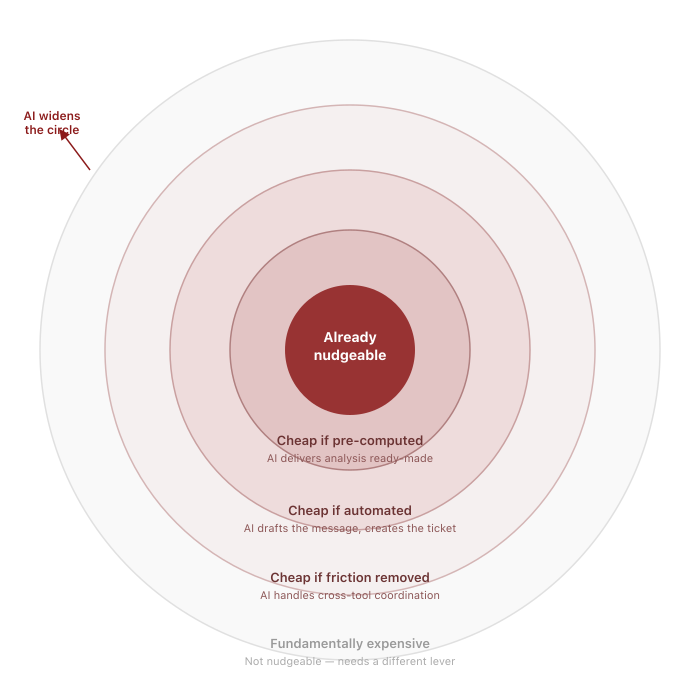
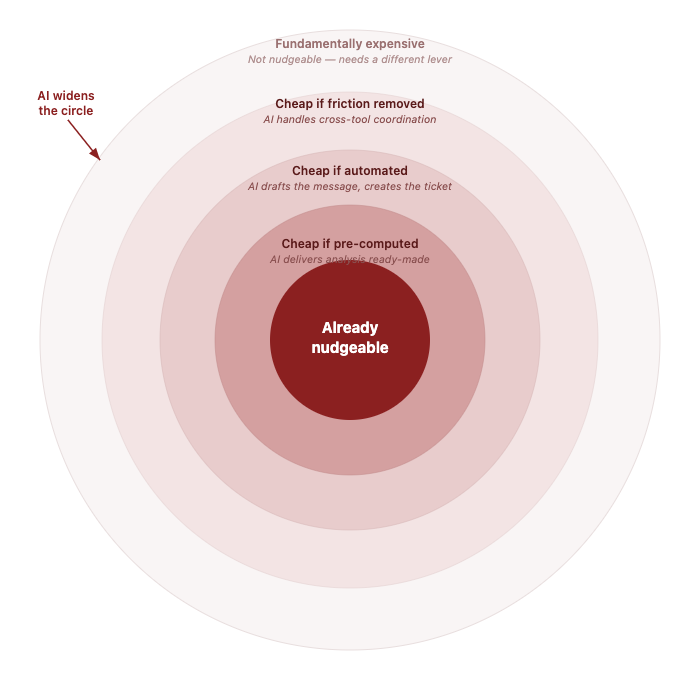
Rebuild expanding circle diagram with labels inside ring bands
Text now centered within each concentric layer instead of stacked
below center. Cleaner, more readable layout.

diff --git a/public/expanding-circle.html b/public/expanding-circle.html
@@ -1,0 +1,63 @@
+<!DOCTYPE html>
+<html lang="en">
+<head>
+<meta charset="UTF-8">
+<style>
+  * { margin: 0; padding: 0; box-sizing: border-box; }
+  body { background: #fff; display: flex; align-items: center; justify-content: center; height: 700px; width: 700px; }
+  svg { display: block; }
+</style>
+</head>
+<body>
+<svg viewBox="0 0 700 700" width="700" height="700" xmlns="http://www.w3.org/2000/svg">
+  <!-- Background -->
+  <rect width="700" height="700" fill="#fff"/>
+
+  <!-- Ring 5 (outermost): Fundamentally expensive -->
+  <circle cx="350" cy="340" r="310" fill="#f9f5f5" stroke="#e8dede" stroke-width="1"/>
+
+  <!-- Ring 4: Cheap if friction removed -->
+  <circle cx="350" cy="340" r="248" fill="#f3e4e4" stroke="#e0cccc" stroke-width="0.5"/>
+
+  <!-- Ring 3: Cheap if automated -->
+  <circle cx="350" cy="340" r="190" fill="#e8cccc" stroke="#d4b3b3" stroke-width="0.5"/>
+
+  <!-- Ring 2: Cheap if pre-computed -->
+  <circle cx="350" cy="340" r="135" fill="#d4a0a0" stroke="#c08888" stroke-width="0.5"/>
+
+  <!-- Ring 1 (center): Already nudgeable -->
+  <circle cx="350" cy="340" r="80" fill="#8b2020" stroke="none"/>
+
+  <!-- Center text -->
+  <text x="350" y="333" text-anchor="middle" font-family="-apple-system, BlinkMacSystemFont, 'Segoe UI', sans-serif" font-size="15" font-weight="700" fill="#fff">Already</text>
+  <text x="350" y="353" text-anchor="middle" font-family="-apple-system, BlinkMacSystemFont, 'Segoe UI', sans-serif" font-size="15" font-weight="700" fill="#fff">nudgeable</text>
+
+  <!-- Ring 2 text — centered in the band between r=80 and r=135, so midpoint ~107 from center -->
+  <!-- Place at top of ring for readability -->
+  <text x="350" y="248" text-anchor="middle" font-family="-apple-system, BlinkMacSystemFont, 'Segoe UI', sans-serif" font-size="12" font-weight="600" fill="#5a1a1a">Cheap if pre-computed</text>
+  <text x="350" y="263" text-anchor="middle" font-family="-apple-system, BlinkMacSystemFont, 'Segoe UI', sans-serif" font-size="10.5" fill="#8a5050" font-style="italic">AI delivers analysis ready-made</text>
+
+  <!-- Ring 3 text — centered in band between r=135 and r=190, midpoint ~162 -->
+  <text x="350" y="175" text-anchor="middle" font-family="-apple-system, BlinkMacSystemFont, 'Segoe UI', sans-serif" font-size="12" font-weight="600" fill="#5a1a1a">Cheap if automated</text>
+  <text x="350" y="190" text-anchor="middle" font-family="-apple-system, BlinkMacSystemFont, 'Segoe UI', sans-serif" font-size="10.5" fill="#8a5050" font-style="italic">AI drafts the message, creates the ticket</text>
+
+  <!-- Ring 4 text — centered in band between r=190 and r=248, midpoint ~219 -->
+  <text x="350" y="108" text-anchor="middle" font-family="-apple-system, BlinkMacSystemFont, 'Segoe UI', sans-serif" font-size="12" font-weight="600" fill="#5a1a1a">Cheap if friction removed</text>
+  <text x="350" y="123" text-anchor="middle" font-family="-apple-system, BlinkMacSystemFont, 'Segoe UI', sans-serif" font-size="10.5" fill="#8a5050" font-style="italic">AI handles cross-tool coordination</text>
+
+  <!-- Ring 5 text (outermost) — centered in band between r=248 and r=310, midpoint ~279 -->
+  <text x="350" y="48" text-anchor="middle" font-family="-apple-system, BlinkMacSystemFont, 'Segoe UI', sans-serif" font-size="12" font-weight="600" fill="#9a7070">Fundamentally expensive</text>
+  <text x="350" y="63" text-anchor="middle" font-family="-apple-system, BlinkMacSystemFont, 'Segoe UI', sans-serif" font-size="10.5" fill="#b09090" font-style="italic">Not nudgeable — needs a different lever</text>
+
+  <!-- Arrow annotation -->
+  <line x1="68" y1="120" x2="100" y2="160" stroke="#8b2020" stroke-width="1.5" marker-end="url(#arrowhead)"/>
+  <defs>
+    <marker id="arrowhead" markerWidth="8" markerHeight="6" refX="8" refY="3" orient="auto">
+      <polygon points="0 0, 8 3, 0 6" fill="#8b2020"/>
+    </marker>
+  </defs>
+  <text x="66" y="100" text-anchor="middle" font-family="-apple-system, BlinkMacSystemFont, 'Segoe UI', sans-serif" font-size="12" font-weight="600" fill="#8b2020">AI widens</text>
+  <text x="66" y="115" text-anchor="middle" font-family="-apple-system, BlinkMacSystemFont, 'Segoe UI', sans-serif" font-size="12" font-weight="600" fill="#8b2020">the circle</text>
+</svg>
+</body>
+</html>
